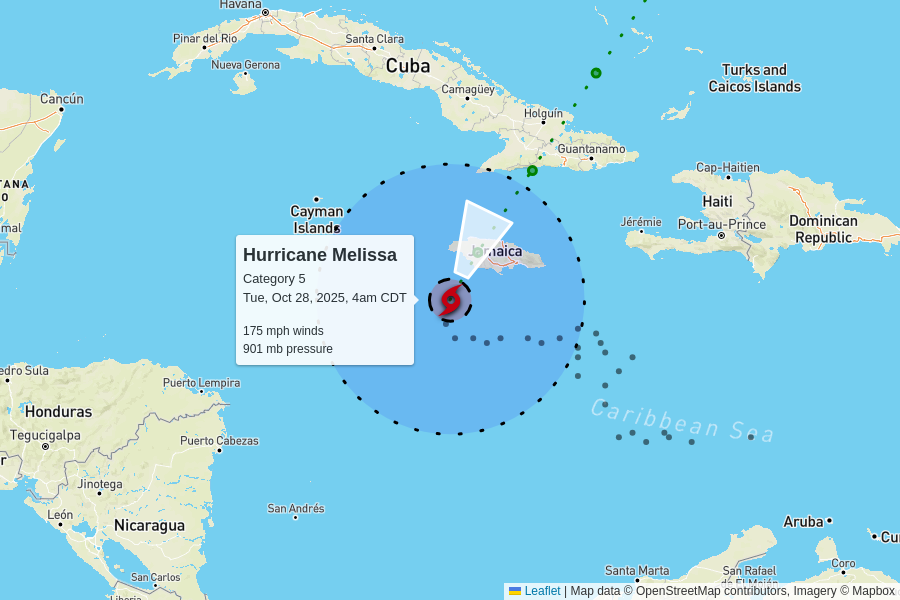
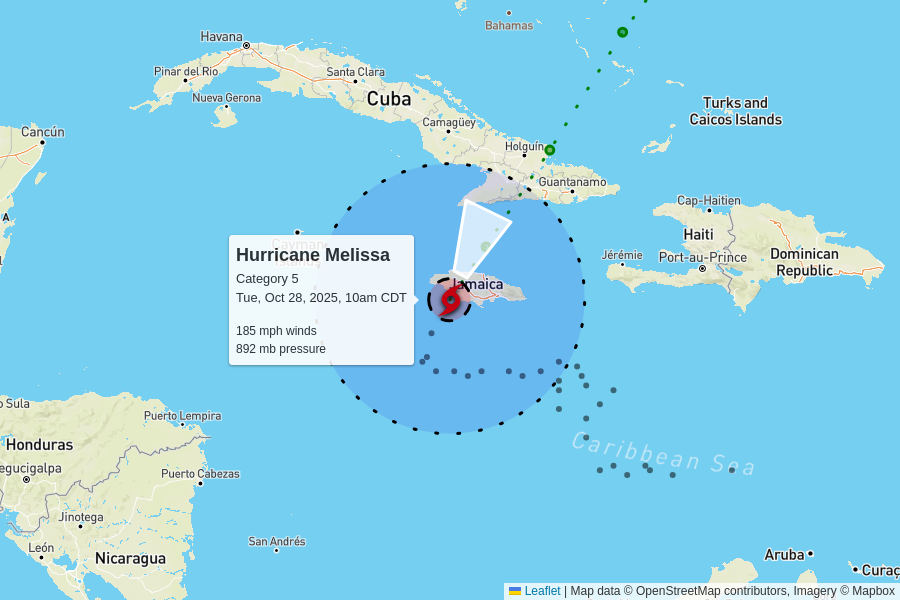
automatic update

diff --git a/docs/index.html b/docs/index.html
@@ -102,7 +102,7 @@
         <td colspan="6" class="storm category-5" >
           <h2>
             Hurricane Melissa - Category 5
-            <p class="updated">last updated <span data-time>2025-10-28T09:00:00.000Z</span></p>
+            <p class="updated">last updated <span data-time>2025-10-28T15:00:00.000Z</span></p>
           </h2>
         </td>
       </tr>
@@ -117,10 +117,10 @@
       </tr>
       <tr>
         <td class="spacer"></td>
-        <td>175 mph<br>0 mph since last update</td>
-        <td>901 mb<br>-2 mb since last update</td>
+        <td>185 mph<br>+10 mph since last update</td>
+        <td>892 mb<br>-9 mb since last update</td>
         <td>
-          5 mph to the north-northeast
+          9 mph to the north-northeast
           <br/>
           <span style="display: inline-block; font-size: 1.5em; transform: rotate(25deg);">↑</span>
         </td>
